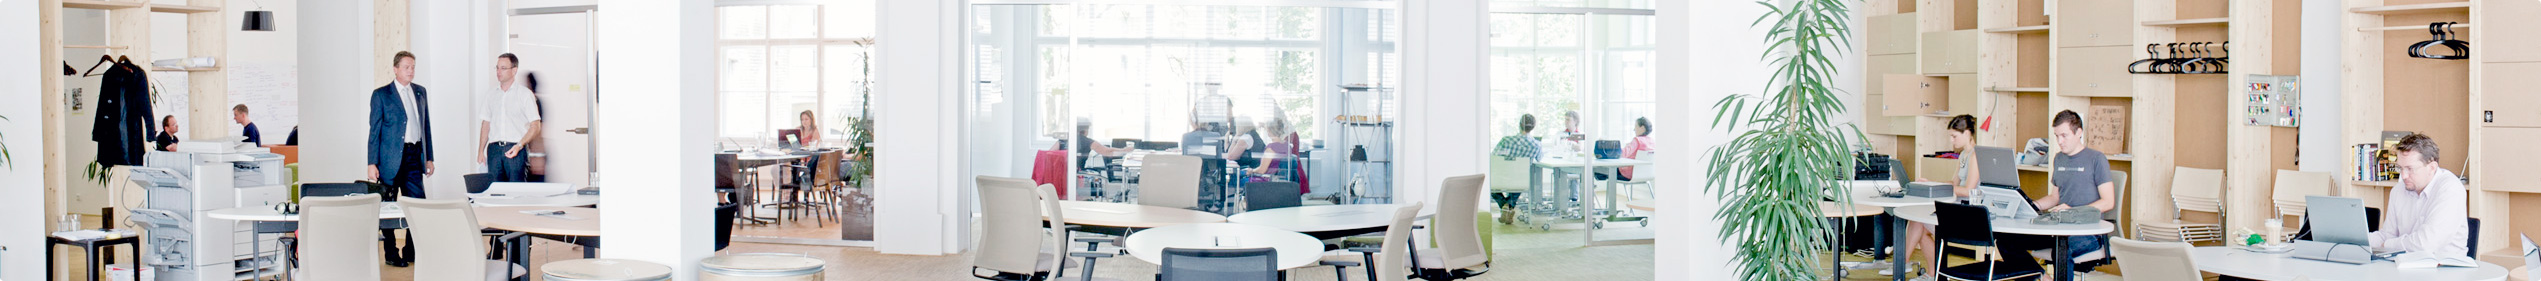
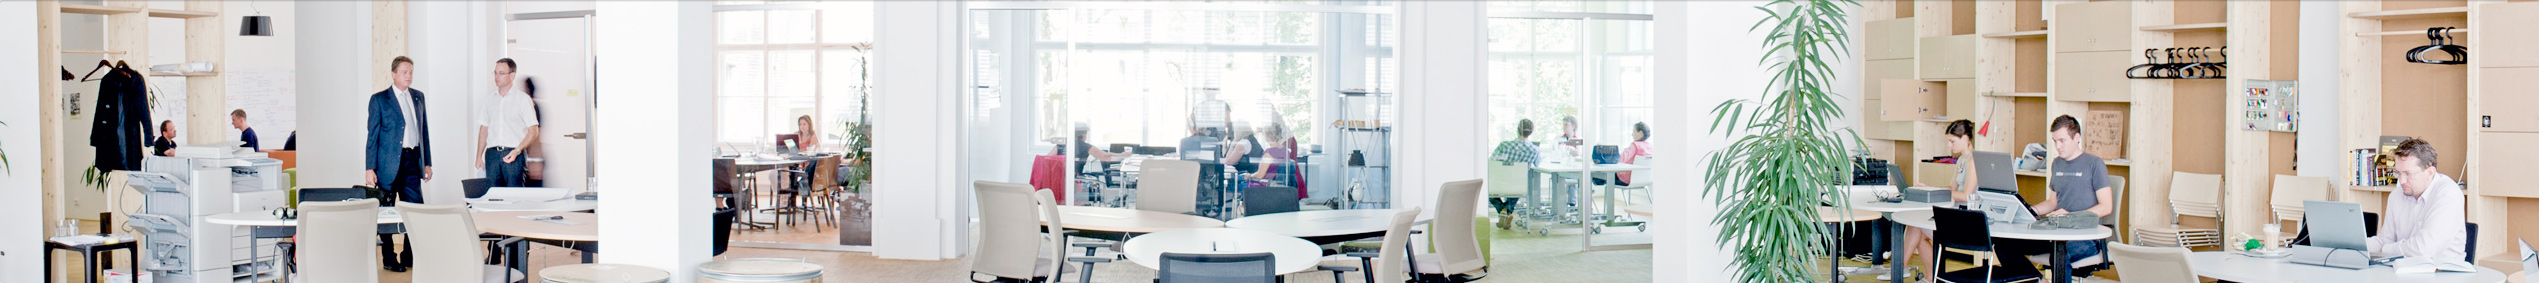
change big img

diff --git a/css/style.css b/css/style.css
@@ -1600,7 +1600,7 @@ aside h2:before {
 
 /* line 105, ../sass/_main.scss */
 .big-picture-box {
-  background: url(../img/big-img.jpg) no-repeat 50% 25px;
+  background: url(../img/big-img.jpg) no-repeat 50% 23px;
   height: 351px;
   margin: 0 0 40px;
   position: relative;

diff --git a/sass/_main.scss b/sass/_main.scss
@@ -103,7 +103,7 @@ aside  {
 	}
 }
 .big-picture-box {
-	background: url(../img/big-img.jpg) no-repeat 50% 25px;
+	background: url(../img/big-img.jpg) no-repeat 50% 23px;
 	height: 351px;
 	margin: 0 0 40px;
 	position: relative;
